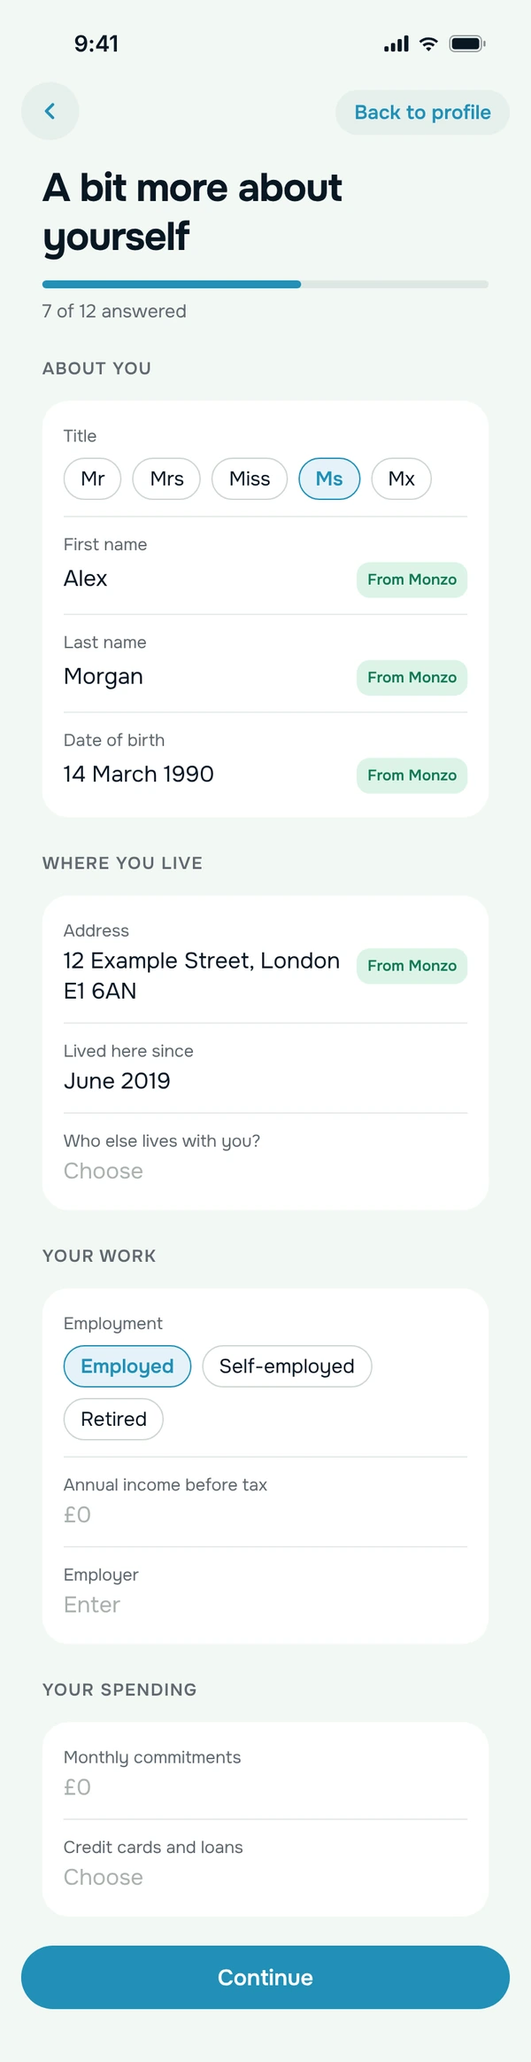
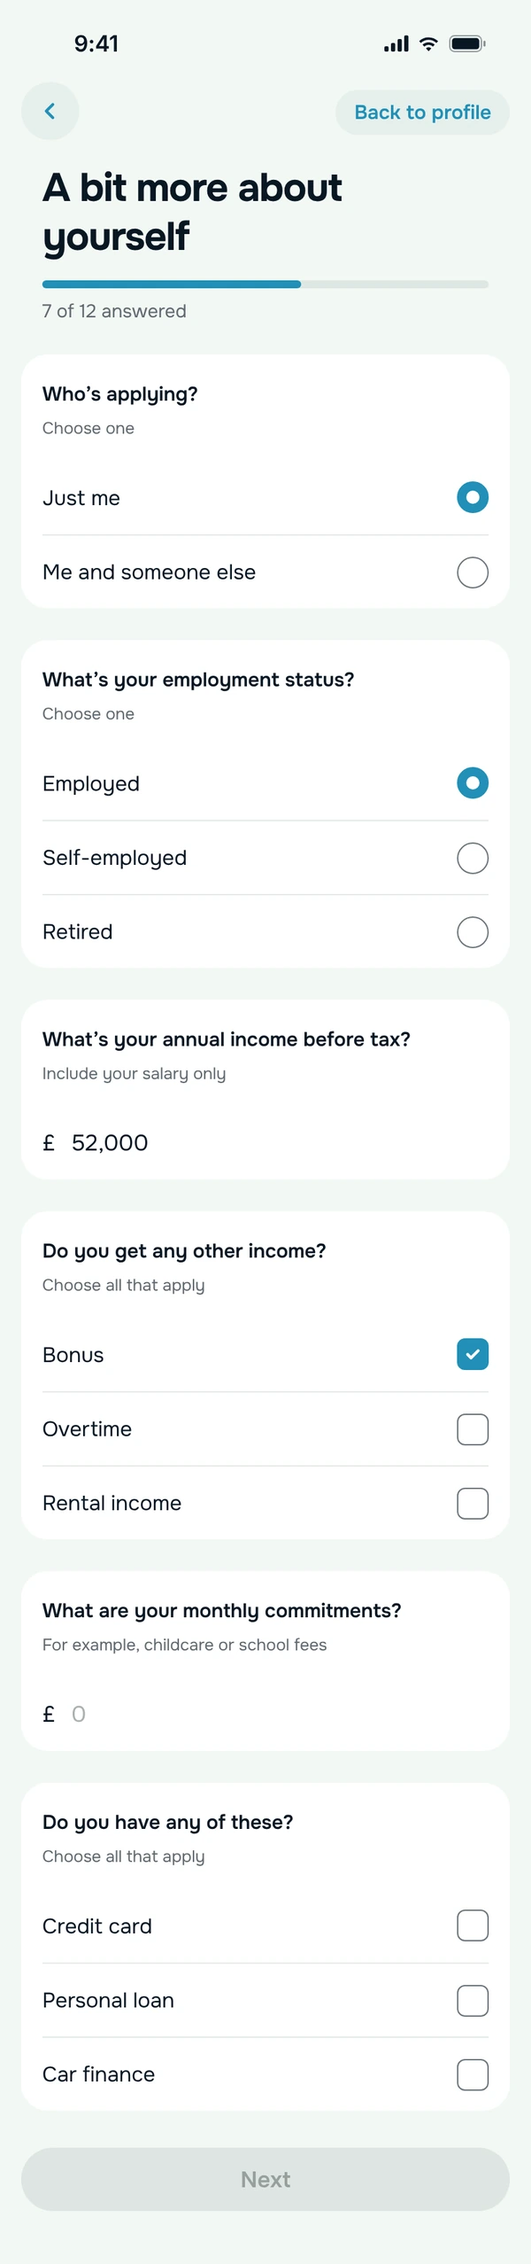
Remortgage deck: comparison-site Before copy, form v1 on the fact-find template, less text and bigger phones on slides 16-17
Claude-Session: https://claude.ai/code/session_019ui8k763ghSzq4U6arn5bM

diff --git a/remortgage-presentation/present.html b/remortgage-presentation/present.html
@@ -9,11 +9,11 @@
 <link rel="preconnect" href="https://fonts.googleapis.com">
 <link rel="preconnect" href="https://fonts.gstatic.com" crossorigin>
 <link href="https://fonts.googleapis.com/css2?family=DM+Sans:opsz,wght@9..40,400;9..40,500;9..40,600;9..40,700;9..40,800&family=Fragment+Mono&display=swap" rel="stylesheet">
-<link rel="stylesheet" href="styles.css?v=209">
-<link rel="stylesheet" href="deck.css?v=209">
-<link rel="stylesheet" href="monzo.css?v=209">
+<link rel="stylesheet" href="styles.css?v=210">
+<link rel="stylesheet" href="deck.css?v=210">
+<link rel="stylesheet" href="monzo.css?v=210">
 <link rel="preconnect" href="https://images.ctfassets.net">
-<script src="present.js?v=209" defer></script>
+<script src="present.js?v=210" defer></script>
 <style>
 body.present{--bar:52px;background:#112231;grid-template-rows:minmax(0,1fr) auto;height:100svh;min-height:0;overflow:hidden}
 .present .topbar,.present .slide-caption,.present .arrow,.present .notes-bottom,.present .notes-sheet{display:none!important}
@@ -204,22 +204,22 @@ body.present{--bar:52px;background:#112231;grid-template-rows:minmax(0,1fr) auto
 <section class="slide dark was-light" data-n="16" data-k="d2"><div class="eyebrow a mz-kicker">Habito<span class="mz-pill">Bet 1 of 4</span></div><h1 class="a" style="--d:1">People thought we were a comparison site</h1>
 <div class="phones-row ctx" style="margin-top:24px;gap:26px;align-items:stretch">
   <div class="col reach-col" style="flex:1;gap:12px;min-width:0">
-    <div class="card  a" style="--d:3;"><div class="label">What we knew</div><p class="strong">My research, from in-house surveys and support conversations: we led with “over 100 lenders”, so people expected a comparison site. A broker’s questions then felt like a bait-and-switch.</p></div>
-    <div class="card navy a" style="--d:4;"><div class="label">What I proposed</div><ul><li>Lead with the help of a mortgage expert</li><li>Say who Habito is, and that the advice is free</li><li>Simpler consent, with the commission disclosure kept in plain words</li><li>Trust signals early</li></ul></div>
-    <div class="card mint a" style="--d:5;"><div class="label">Result</div><p class="strong">Live on 1 May 2026, when the journey relaunched as Habito by Monzo (“Day 1”). Not significant yet, but Ops reported fewer questions about comparing deals.</p></div>
+    <div class="card  a" style="--d:3;"><div class="label">What we knew</div><p class="strong">We led with “100+ lenders”. People expected a comparison site, so a broker’s questions felt like a bait-and-switch.</p></div>
+    <div class="card navy a" style="--d:4;"><div class="label">What I proposed</div><ul><li>Lead with expert help</li><li>Say who Habito is, and that it’s free</li><li>Consent in plain words</li><li>Trust signals early</li></ul></div>
+    <div class="card mint a" style="--d:5;"><div class="label">Result</div><p class="strong">Live since 1 May 2026. No significant change yet, but Ops heard fewer questions about comparing deals.</p></div>
   </div>
-  <div class="optcol wide before a" style="--d:4"><span class="opttag">Before<i>“Compare deals from over 100 lenders”</i></span><div class="bz" style="width:236px;padding:6.1px;border-radius:35px"><span class="bz-screen" style="border-radius:29px;--vh:486px"><img src="assets/img/d1-before-flat.png" alt="Before: Remortgaging made simple with Habito, compare deals from over 100 lenders"></span></div></div>
-  <div class="optcol wide on a" style="--d:5"><span class="opttag">After <b>My Day 1 design</b><i>“Find a mortgage with free expert help”</i></span><div class="bz" style="width:236px;padding:6.1px;border-radius:35px"><span class="bz-screen" style="border-radius:29px;--vh:486px"><img src="assets/img/day1-broker.webp?v=2" alt="After: Find a mortgage with free expert help"></span></div></div>
+  <div class="optcol wide before a" style="--d:4;flex:0 0 336px"><span class="opttag">Before<i>“Compare remortgage deals from 100+ lenders”</i></span><div class="bz" style="width:266px;padding:6.9px;border-radius:39px"><span class="bz-screen" style="border-radius:32px;--vh:548px"><img src="assets/img/d1-before.webp?v=1" alt="Before: Compare remortgage deals with Habito, deals from over 100 lenders in one place"></span></div></div>
+  <div class="optcol wide on a" style="--d:5;flex:0 0 336px"><span class="opttag">After <b>My Day 1 design</b><i>“Find a mortgage with free expert help”</i></span><div class="bz" style="width:266px;padding:6.9px;border-radius:39px"><span class="bz-screen" style="border-radius:32px;--vh:548px"><img src="assets/img/day1-broker.webp?v=2" alt="After: Find a mortgage with free expert help"></span></div></div>
 </div></section>
 <section class="slide dark was-light" data-n="17" data-k="d5"><div class="eyebrow a mz-kicker">Habito<span class="mz-pill">Bet 2 of 4</span></div><h1 class="a" style="--d:1">Move the application into Monzo, pre-filled</h1>
 <div class="phones-row ctx" style="margin-top:24px;gap:26px;align-items:stretch">
   <div class="col reach-col" style="flex:1;gap:12px;min-width:0">
-    <div class="card  a" style="--d:3;"><div class="label">Problem</div><p class="strong">The application form lived on the broker’s website, and it had around 200 questions. With Better, in 2025, almost half of people dropped out there (Better’s own figure).</p></div>
-    <div class="card navy a" style="--d:4;"><div class="label">What I designed</div><ul><li>The application, inside Monzo</li><li>Pre-filled: you confirm what Monzo already knows</li><li>Save it and come back later (next version)</li><li>Measured step by step, to see where people stop</li></ul></div>
-    <div class="card mint a" style="--d:5;"><div class="label">Status</div><p class="strong">The first version went live at the end of September 2026, tested with half of customers. Early signal from the team: about 40% more people finish the form and reach a recommendation than when it meant going to Habito’s website. Still early, so not a mature result yet.</p></div>
+    <div class="card  a" style="--d:3;"><div class="label">Problem</div><p class="strong">The form lived on the broker’s website, with around 200 questions. With Better, almost half of people dropped out there.</p></div>
+    <div class="card navy a" style="--d:4;"><div class="label">What I designed</div><ul><li>The application, inside Monzo</li><li>Pre-filled with what Monzo knows</li><li>Save and come back (next version)</li><li>Measured step by step</li></ul></div>
+    <div class="card mint a" style="--d:5;"><div class="label">Status</div><p class="strong">Live since late September 2026, tested with half of customers. Early signal: about 40% more people finish it than on Habito’s website. Still early.</p></div>
   </div>
-  <div class="optcol on a" style="--d:4"><span class="opttag">First version · one long form <b>Live · Sep 2026</b></span><div class="bz" style="width:204px;padding:5.3px;border-radius:30px"><span class="bz-screen" style="border-radius:25px"><img class="ir-scroll" src="assets/img/app-v1.webp?v=1" alt="First version: one long form, a bit more about yourself, with your name, date of birth and address already filled in from Monzo" style="--t:-43.9%"></span></div></div>
-  <div class="optcol a" style="--d:5"><span class="opttag">Next · five sections, progress saved</span><div class="bz" style="width:204px;padding:5.3px;border-radius:30px"><span class="bz-screen" style="border-radius:25px"><img src="assets/img/app-next.png?v=2" alt="Next version: should take 20 minutes to finish, 2 of 5 complete"></span></div></div>
+  <div class="optcol on a" style="--d:4"><span class="opttag">First version · one long form <b>Live · Sep 2026</b></span><div class="bz" style="width:244px;padding:6.3px;border-radius:36px"><span class="bz-screen" style="border-radius:30px"><img class="ir-scroll" src="assets/img/app-v1.webp?v=2" alt="First version: one long form with questions about who’s applying, work, income and commitments" style="--t:-48.9%"></span></div></div>
+  <div class="optcol a" style="--d:5"><span class="opttag">Next · five sections, progress saved</span><div class="bz" style="width:244px;padding:6.3px;border-radius:36px"><span class="bz-screen" style="border-radius:30px"><img src="assets/img/app-next.png?v=2" alt="Next version: should take 20 minutes to finish, 2 of 5 complete"></span></div></div>
 </div></section>
 <section class="slide dark was-light" data-n="18" data-k="rec"><div class="eyebrow a mz-kicker">Habito<span class="mz-pill">Bet 3 of 4</span></div><h1 class="a" style="--d:1">A push the moment the recommendation is ready</h1>
 <div class="phones-row ctx" style="margin-top:24px;gap:26px;align-items:stretch">

diff --git a/remortgage-presentation/index.html b/remortgage-presentation/index.html
@@ -9,11 +9,11 @@
 <link rel="preconnect" href="https://fonts.googleapis.com">
 <link rel="preconnect" href="https://fonts.gstatic.com" crossorigin>
 <link href="https://fonts.googleapis.com/css2?family=DM+Sans:opsz,wght@9..40,400;9..40,500;9..40,600;9..40,700;9..40,800&family=Fragment+Mono&display=swap" rel="stylesheet">
-<link rel="stylesheet" href="styles.css?v=209">
-<link rel="stylesheet" href="deck.css?v=209">
-<link rel="stylesheet" href="monzo.css?v=209">
+<link rel="stylesheet" href="styles.css?v=210">
+<link rel="stylesheet" href="deck.css?v=210">
+<link rel="stylesheet" href="monzo.css?v=210">
 <link rel="preconnect" href="https://images.ctfassets.net">
-<script src="slides.js?v=209" defer></script>
+<script src="slides.js?v=210" defer></script>
 </head>
 <body>
 <header class="topbar">
@@ -192,22 +192,22 @@
 <section class="slide dark was-light" data-n="16" data-k="d2"><div class="eyebrow a mz-kicker">Habito<span class="mz-pill">Bet 1 of 4</span></div><h1 class="a" style="--d:1">People thought we were a comparison site</h1>
 <div class="phones-row ctx" style="margin-top:24px;gap:26px;align-items:stretch">
   <div class="col reach-col" style="flex:1;gap:12px;min-width:0">
-    <div class="card  a" style="--d:3;"><div class="label">What we knew</div><p class="strong">My research, from in-house surveys and support conversations: we led with “over 100 lenders”, so people expected a comparison site. A broker’s questions then felt like a bait-and-switch.</p></div>
-    <div class="card navy a" style="--d:4;"><div class="label">What I proposed</div><ul><li>Lead with the help of a mortgage expert</li><li>Say who Habito is, and that the advice is free</li><li>Simpler consent, with the commission disclosure kept in plain words</li><li>Trust signals early</li></ul></div>
-    <div class="card mint a" style="--d:5;"><div class="label">Result</div><p class="strong">Live on 1 May 2026, when the journey relaunched as Habito by Monzo (“Day 1”). Not significant yet, but Ops reported fewer questions about comparing deals.</p></div>
+    <div class="card  a" style="--d:3;"><div class="label">What we knew</div><p class="strong">We led with “100+ lenders”. People expected a comparison site, so a broker’s questions felt like a bait-and-switch.</p></div>
+    <div class="card navy a" style="--d:4;"><div class="label">What I proposed</div><ul><li>Lead with expert help</li><li>Say who Habito is, and that it’s free</li><li>Consent in plain words</li><li>Trust signals early</li></ul></div>
+    <div class="card mint a" style="--d:5;"><div class="label">Result</div><p class="strong">Live since 1 May 2026. No significant change yet, but Ops heard fewer questions about comparing deals.</p></div>
   </div>
-  <div class="optcol wide before a" style="--d:4"><span class="opttag">Before<i>“Compare deals from over 100 lenders”</i></span><div class="bz" style="width:236px;padding:6.1px;border-radius:35px"><span class="bz-screen" style="border-radius:29px;--vh:486px"><img src="assets/img/d1-before-flat.png" alt="Before: Remortgaging made simple with Habito, compare deals from over 100 lenders"></span></div></div>
-  <div class="optcol wide on a" style="--d:5"><span class="opttag">After <b>My Day 1 design</b><i>“Find a mortgage with free expert help”</i></span><div class="bz" style="width:236px;padding:6.1px;border-radius:35px"><span class="bz-screen" style="border-radius:29px;--vh:486px"><img src="assets/img/day1-broker.webp?v=2" alt="After: Find a mortgage with free expert help"></span></div></div>
+  <div class="optcol wide before a" style="--d:4;flex:0 0 336px"><span class="opttag">Before<i>“Compare remortgage deals from 100+ lenders”</i></span><div class="bz" style="width:266px;padding:6.9px;border-radius:39px"><span class="bz-screen" style="border-radius:32px;--vh:548px"><img src="assets/img/d1-before.webp?v=1" alt="Before: Compare remortgage deals with Habito, deals from over 100 lenders in one place"></span></div></div>
+  <div class="optcol wide on a" style="--d:5;flex:0 0 336px"><span class="opttag">After <b>My Day 1 design</b><i>“Find a mortgage with free expert help”</i></span><div class="bz" style="width:266px;padding:6.9px;border-radius:39px"><span class="bz-screen" style="border-radius:32px;--vh:548px"><img src="assets/img/day1-broker.webp?v=2" alt="After: Find a mortgage with free expert help"></span></div></div>
 </div></section>
 <section class="slide dark was-light" data-n="17" data-k="d5"><div class="eyebrow a mz-kicker">Habito<span class="mz-pill">Bet 2 of 4</span></div><h1 class="a" style="--d:1">Move the application into Monzo, pre-filled</h1>
 <div class="phones-row ctx" style="margin-top:24px;gap:26px;align-items:stretch">
   <div class="col reach-col" style="flex:1;gap:12px;min-width:0">
-    <div class="card  a" style="--d:3;"><div class="label">Problem</div><p class="strong">The application form lived on the broker’s website, and it had around 200 questions. With Better, in 2025, almost half of people dropped out there (Better’s own figure).</p></div>
-    <div class="card navy a" style="--d:4;"><div class="label">What I designed</div><ul><li>The application, inside Monzo</li><li>Pre-filled: you confirm what Monzo already knows</li><li>Save it and come back later (next version)</li><li>Measured step by step, to see where people stop</li></ul></div>
-    <div class="card mint a" style="--d:5;"><div class="label">Status</div><p class="strong">The first version went live at the end of September 2026, tested with half of customers. Early signal from the team: about 40% more people finish the form and reach a recommendation than when it meant going to Habito’s website. Still early, so not a mature result yet.</p></div>
+    <div class="card  a" style="--d:3;"><div class="label">Problem</div><p class="strong">The form lived on the broker’s website, with around 200 questions. With Better, almost half of people dropped out there.</p></div>
+    <div class="card navy a" style="--d:4;"><div class="label">What I designed</div><ul><li>The application, inside Monzo</li><li>Pre-filled with what Monzo knows</li><li>Save and come back (next version)</li><li>Measured step by step</li></ul></div>
+    <div class="card mint a" style="--d:5;"><div class="label">Status</div><p class="strong">Live since late September 2026, tested with half of customers. Early signal: about 40% more people finish it than on Habito’s website. Still early.</p></div>
   </div>
-  <div class="optcol on a" style="--d:4"><span class="opttag">First version · one long form <b>Live · Sep 2026</b></span><div class="bz" style="width:204px;padding:5.3px;border-radius:30px"><span class="bz-screen" style="border-radius:25px"><img class="ir-scroll" src="assets/img/app-v1.webp?v=1" alt="First version: one long form, a bit more about yourself, with your name, date of birth and address already filled in from Monzo" style="--t:-43.9%"></span></div></div>
-  <div class="optcol a" style="--d:5"><span class="opttag">Next · five sections, progress saved</span><div class="bz" style="width:204px;padding:5.3px;border-radius:30px"><span class="bz-screen" style="border-radius:25px"><img src="assets/img/app-next.png?v=2" alt="Next version: should take 20 minutes to finish, 2 of 5 complete"></span></div></div>
+  <div class="optcol on a" style="--d:4"><span class="opttag">First version · one long form <b>Live · Sep 2026</b></span><div class="bz" style="width:244px;padding:6.3px;border-radius:36px"><span class="bz-screen" style="border-radius:30px"><img class="ir-scroll" src="assets/img/app-v1.webp?v=2" alt="First version: one long form with questions about who’s applying, work, income and commitments" style="--t:-48.9%"></span></div></div>
+  <div class="optcol a" style="--d:5"><span class="opttag">Next · five sections, progress saved</span><div class="bz" style="width:244px;padding:6.3px;border-radius:36px"><span class="bz-screen" style="border-radius:30px"><img src="assets/img/app-next.png?v=2" alt="Next version: should take 20 minutes to finish, 2 of 5 complete"></span></div></div>
 </div></section>
 <section class="slide dark was-light" data-n="18" data-k="rec"><div class="eyebrow a mz-kicker">Habito<span class="mz-pill">Bet 3 of 4</span></div><h1 class="a" style="--d:1">A push the moment the recommendation is ready</h1>
 <div class="phones-row ctx" style="margin-top:24px;gap:26px;align-items:stretch">

diff --git a/remortgage-presentation/15min-present.html b/remortgage-presentation/15min-present.html
@@ -9,11 +9,11 @@
 <link rel="preconnect" href="https://fonts.googleapis.com">
 <link rel="preconnect" href="https://fonts.gstatic.com" crossorigin>
 <link href="https://fonts.googleapis.com/css2?family=DM+Sans:opsz,wght@9..40,400;9..40,500;9..40,600;9..40,700;9..40,800&family=Fragment+Mono&display=swap" rel="stylesheet">
-<link rel="stylesheet" href="styles.css?v=209">
-<link rel="stylesheet" href="deck.css?v=209">
-<link rel="stylesheet" href="monzo.css?v=209">
+<link rel="stylesheet" href="styles.css?v=210">
+<link rel="stylesheet" href="deck.css?v=210">
+<link rel="stylesheet" href="monzo.css?v=210">
 <link rel="preconnect" href="https://images.ctfassets.net">
-<script src="15min-present.js?v=209" defer></script>
+<script src="15min-present.js?v=210" defer></script>
 <style>
 body.present{--bar:52px;background:#112231;grid-template-rows:minmax(0,1fr) auto;height:100svh;min-height:0;overflow:hidden}
 .present .topbar,.present .slide-caption,.present .arrow,.present .notes-bottom,.present .notes-sheet{display:none!important}
@@ -145,12 +145,12 @@ body.present{--bar:52px;background:#112231;grid-template-rows:minmax(0,1fr) auto
 <section class="slide dark was-light" data-n="09" data-k="d5"><div class="eyebrow a mz-kicker">Habito<span class="mz-pill">Bet 2 of 4</span></div><h1 class="a" style="--d:1">Move the application into Monzo, pre-filled</h1>
 <div class="phones-row ctx" style="margin-top:24px;gap:26px;align-items:stretch">
   <div class="col reach-col" style="flex:1;gap:12px;min-width:0">
-    <div class="card  a" style="--d:3;"><div class="label">Problem</div><p class="strong">The application form lived on the broker’s website, and it had around 200 questions. With Better, in 2025, almost half of people dropped out there (Better’s own figure).</p></div>
-    <div class="card navy a" style="--d:4;"><div class="label">What I designed</div><ul><li>The application, inside Monzo</li><li>Pre-filled: you confirm what Monzo already knows</li><li>Save it and come back later (next version)</li><li>Measured step by step, to see where people stop</li></ul></div>
-    <div class="card mint a" style="--d:5;"><div class="label">Status</div><p class="strong">The first version went live at the end of September 2026, tested with half of customers. Early signal from the team: about 40% more people finish the form and reach a recommendation than when it meant going to Habito’s website. Still early, so not a mature result yet.</p></div>
+    <div class="card  a" style="--d:3;"><div class="label">Problem</div><p class="strong">The form lived on the broker’s website, with around 200 questions. With Better, almost half of people dropped out there.</p></div>
+    <div class="card navy a" style="--d:4;"><div class="label">What I designed</div><ul><li>The application, inside Monzo</li><li>Pre-filled with what Monzo knows</li><li>Save and come back (next version)</li><li>Measured step by step</li></ul></div>
+    <div class="card mint a" style="--d:5;"><div class="label">Status</div><p class="strong">Live since late September 2026, tested with half of customers. Early signal: about 40% more people finish it than on Habito’s website. Still early.</p></div>
   </div>
-  <div class="optcol on a" style="--d:4"><span class="opttag">First version · one long form <b>Live · Sep 2026</b></span><div class="bz" style="width:204px;padding:5.3px;border-radius:30px"><span class="bz-screen" style="border-radius:25px"><img class="ir-scroll" src="assets/img/app-v1.webp?v=1" alt="First version: one long form, a bit more about yourself, with your name, date of birth and address already filled in from Monzo" style="--t:-43.9%"></span></div></div>
-  <div class="optcol a" style="--d:5"><span class="opttag">Next · five sections, progress saved</span><div class="bz" style="width:204px;padding:5.3px;border-radius:30px"><span class="bz-screen" style="border-radius:25px"><img src="assets/img/app-next.png?v=2" alt="Next version: should take 20 minutes to finish, 2 of 5 complete"></span></div></div>
+  <div class="optcol on a" style="--d:4"><span class="opttag">First version · one long form <b>Live · Sep 2026</b></span><div class="bz" style="width:244px;padding:6.3px;border-radius:36px"><span class="bz-screen" style="border-radius:30px"><img class="ir-scroll" src="assets/img/app-v1.webp?v=2" alt="First version: one long form with questions about who’s applying, work, income and commitments" style="--t:-48.9%"></span></div></div>
+  <div class="optcol a" style="--d:5"><span class="opttag">Next · five sections, progress saved</span><div class="bz" style="width:244px;padding:6.3px;border-radius:36px"><span class="bz-screen" style="border-radius:30px"><img src="assets/img/app-next.png?v=2" alt="Next version: should take 20 minutes to finish, 2 of 5 complete"></span></div></div>
 </div></section>
 <section class="slide dark" data-n="10" data-k="results"><div class="eyebrow a mz-kicker">Results</div><h1 class="a" style="--d:1">What changed, and what’s still to do</h1>
 <div class="grid" style="grid-template-columns:420px 1fr;gap:26px;margin-top:28px;align-items:stretch">

diff --git a/remortgage-presentation/15min.html b/remortgage-presentation/15min.html
@@ -9,11 +9,11 @@
 <link rel="preconnect" href="https://fonts.googleapis.com">
 <link rel="preconnect" href="https://fonts.gstatic.com" crossorigin>
 <link href="https://fonts.googleapis.com/css2?family=DM+Sans:opsz,wght@9..40,400;9..40,500;9..40,600;9..40,700;9..40,800&family=Fragment+Mono&display=swap" rel="stylesheet">
-<link rel="stylesheet" href="styles.css?v=209">
-<link rel="stylesheet" href="deck.css?v=209">
-<link rel="stylesheet" href="monzo.css?v=209">
+<link rel="stylesheet" href="styles.css?v=210">
+<link rel="stylesheet" href="deck.css?v=210">
+<link rel="stylesheet" href="monzo.css?v=210">
 <link rel="preconnect" href="https://images.ctfassets.net">
-<script src="15min.js?v=209" defer></script>
+<script src="15min.js?v=210" defer></script>
 </head>
 <body>
 <header class="topbar">
@@ -133,12 +133,12 @@
 <section class="slide dark was-light" data-n="09" data-k="d5"><div class="eyebrow a mz-kicker">Habito<span class="mz-pill">Bet 2 of 4</span></div><h1 class="a" style="--d:1">Move the application into Monzo, pre-filled</h1>
 <div class="phones-row ctx" style="margin-top:24px;gap:26px;align-items:stretch">
   <div class="col reach-col" style="flex:1;gap:12px;min-width:0">
-    <div class="card  a" style="--d:3;"><div class="label">Problem</div><p class="strong">The application form lived on the broker’s website, and it had around 200 questions. With Better, in 2025, almost half of people dropped out there (Better’s own figure).</p></div>
-    <div class="card navy a" style="--d:4;"><div class="label">What I designed</div><ul><li>The application, inside Monzo</li><li>Pre-filled: you confirm what Monzo already knows</li><li>Save it and come back later (next version)</li><li>Measured step by step, to see where people stop</li></ul></div>
-    <div class="card mint a" style="--d:5;"><div class="label">Status</div><p class="strong">The first version went live at the end of September 2026, tested with half of customers. Early signal from the team: about 40% more people finish the form and reach a recommendation than when it meant going to Habito’s website. Still early, so not a mature result yet.</p></div>
+    <div class="card  a" style="--d:3;"><div class="label">Problem</div><p class="strong">The form lived on the broker’s website, with around 200 questions. With Better, almost half of people dropped out there.</p></div>
+    <div class="card navy a" style="--d:4;"><div class="label">What I designed</div><ul><li>The application, inside Monzo</li><li>Pre-filled with what Monzo knows</li><li>Save and come back (next version)</li><li>Measured step by step</li></ul></div>
+    <div class="card mint a" style="--d:5;"><div class="label">Status</div><p class="strong">Live since late September 2026, tested with half of customers. Early signal: about 40% more people finish it than on Habito’s website. Still early.</p></div>
   </div>
-  <div class="optcol on a" style="--d:4"><span class="opttag">First version · one long form <b>Live · Sep 2026</b></span><div class="bz" style="width:204px;padding:5.3px;border-radius:30px"><span class="bz-screen" style="border-radius:25px"><img class="ir-scroll" src="assets/img/app-v1.webp?v=1" alt="First version: one long form, a bit more about yourself, with your name, date of birth and address already filled in from Monzo" style="--t:-43.9%"></span></div></div>
-  <div class="optcol a" style="--d:5"><span class="opttag">Next · five sections, progress saved</span><div class="bz" style="width:204px;padding:5.3px;border-radius:30px"><span class="bz-screen" style="border-radius:25px"><img src="assets/img/app-next.png?v=2" alt="Next version: should take 20 minutes to finish, 2 of 5 complete"></span></div></div>
+  <div class="optcol on a" style="--d:4"><span class="opttag">First version · one long form <b>Live · Sep 2026</b></span><div class="bz" style="width:244px;padding:6.3px;border-radius:36px"><span class="bz-screen" style="border-radius:30px"><img class="ir-scroll" src="assets/img/app-v1.webp?v=2" alt="First version: one long form with questions about who’s applying, work, income and commitments" style="--t:-48.9%"></span></div></div>
+  <div class="optcol a" style="--d:5"><span class="opttag">Next · five sections, progress saved</span><div class="bz" style="width:244px;padding:6.3px;border-radius:36px"><span class="bz-screen" style="border-radius:30px"><img src="assets/img/app-next.png?v=2" alt="Next version: should take 20 minutes to finish, 2 of 5 complete"></span></div></div>
 </div></section>
 <section class="slide dark" data-n="10" data-k="results"><div class="eyebrow a mz-kicker">Results</div><h1 class="a" style="--d:1">What changed, and what’s still to do</h1>
 <div class="grid" style="grid-template-columns:420px 1fr;gap:26px;margin-top:28px;align-items:stretch">

diff --git a/remortgage-presentation/slides.js b/remortgage-presentation/slides.js
@@ -215,7 +215,7 @@ const slides=[
  },
  {
   "title": "People thought we were a comparison site",
-  "notes": "The first bet was about the experience break. And we knew something important.\nIt came from research, which at that point I was doing myself, using our in-house surveys and conversations with customer support. People thought they were using a comparison site.\nAnd that was our fault. If you look at the screen on the left, the first thing we said was 'compare deals from over 100 lenders'.\nSo when a broker started asking about their finances, it felt like a trick.\nSo I proposed two changes. One, change what we say first. We stop leading with the number of lenders, and we lead with the help of a mortgage expert.\nThat's my design on the right, 'Find a mortgage with free expert help'. And two, a simpler consent. We kept the commission disclosure that Compliance needed, but in plain words.\nThis went live on the 1st of May 2026, when the journey was relaunched with the Habito by Monzo brand. We called that Day 1.\nAnd Ops told us they were getting fewer questions about comparing deals, which was exactly the confusion we wanted to fix.",
+  "notes": "The first bet was about the experience break. And we knew something important.\nIt came from research, which at that point I was doing myself, using our in-house surveys and conversations with customer support. People thought they were using a comparison site.\nAnd that was our fault. If you look at the screen on the left, the first thing we said was 'compare remortgage deals from over 100 lenders'.\nSo when a broker started asking about their finances, it felt like a trick.\nSo I proposed two changes. One, change what we say first. We stop leading with the number of lenders, and we lead with the help of a mortgage expert.\nThat's my design on the right, 'Find a mortgage with free expert help'. And two, a simpler consent. We kept the commission disclosure that Compliance needed, but in plain words.\nThis went live on the 1st of May 2026, when the journey was relaunched with the Habito by Monzo brand. We called that Day 1.\nAnd Ops told us they were getting fewer questions about comparing deals, which was exactly the confusion we wanted to fix.",
   "ask": [
    [
     "Who did the research in 2026, without a researcher?",
